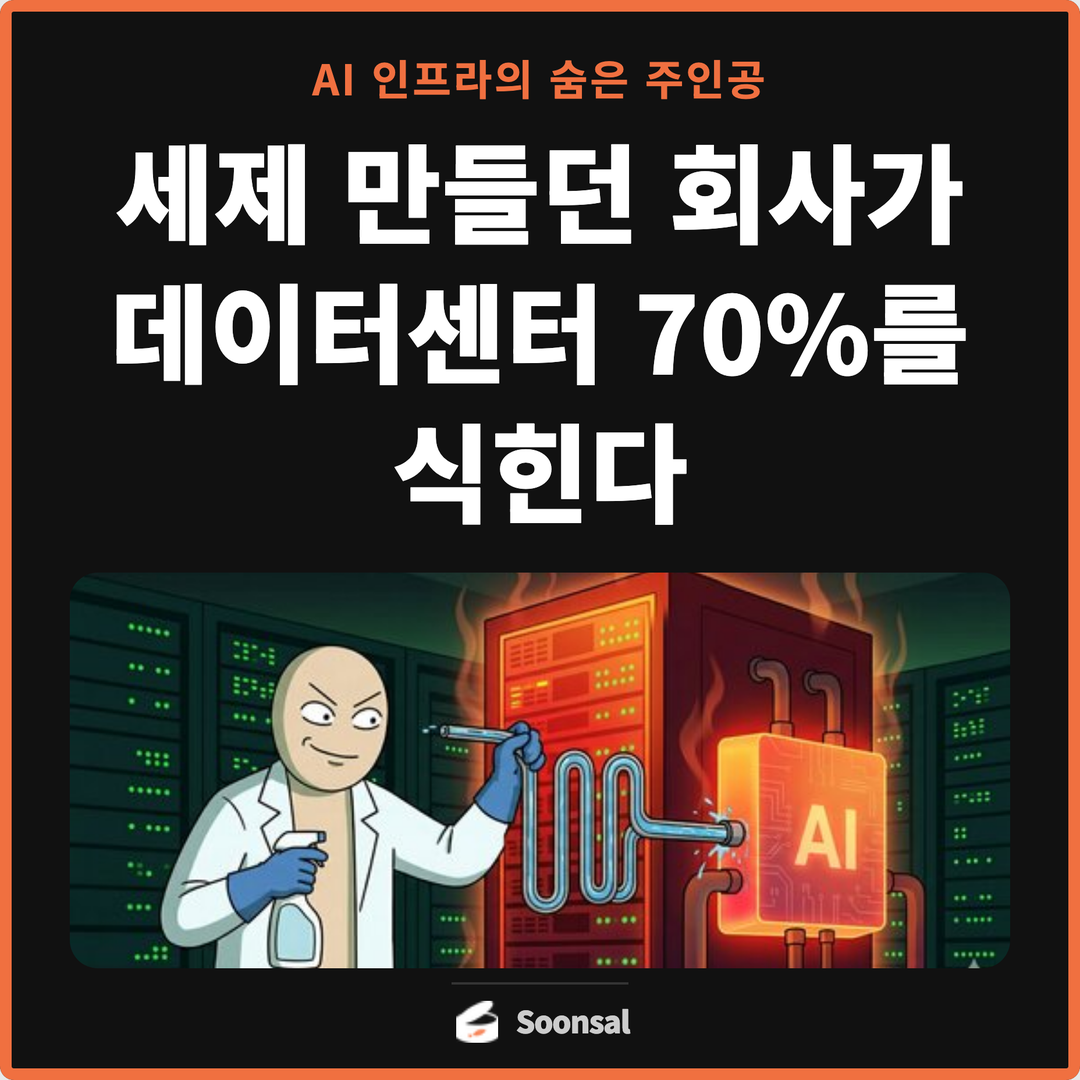
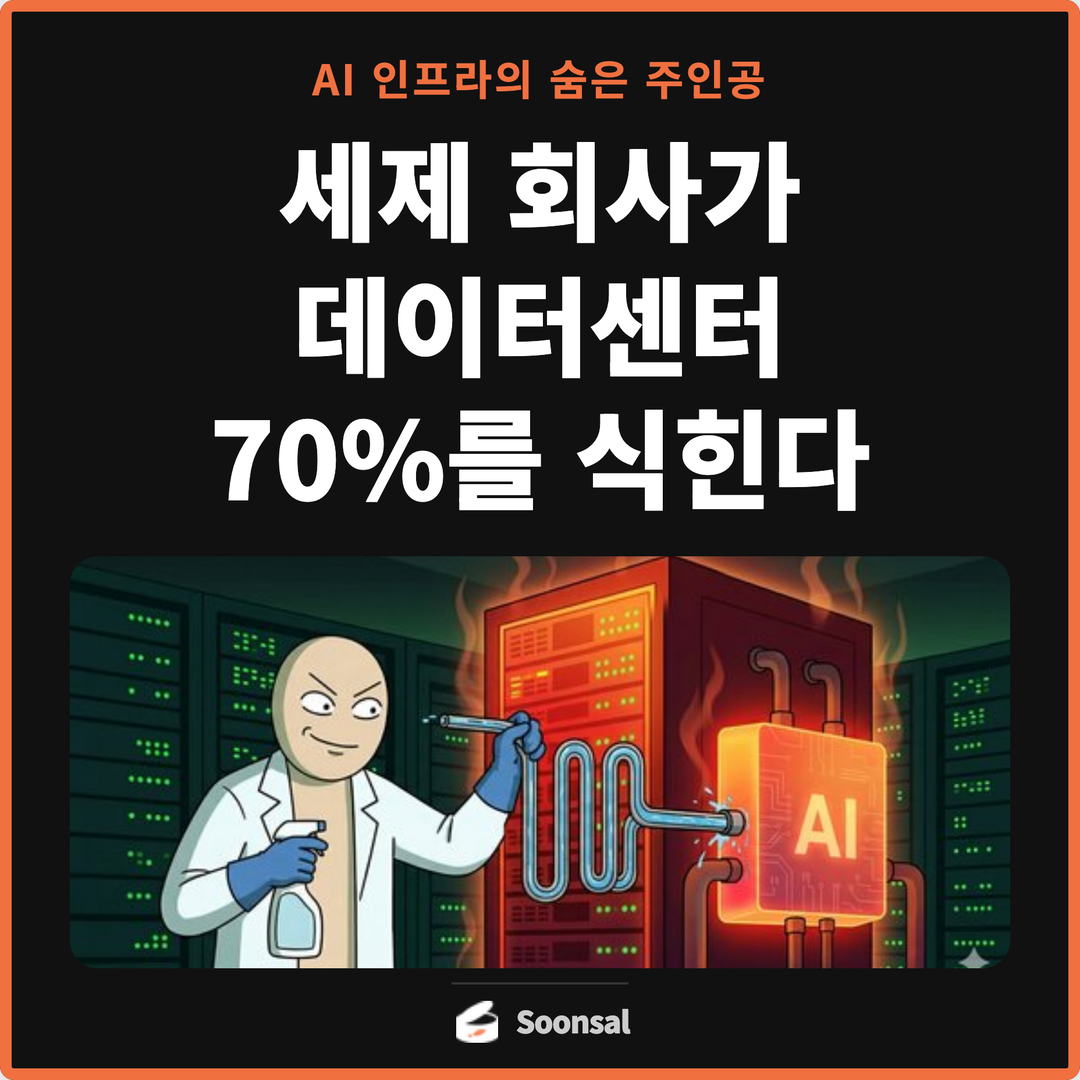
Add 순살카드뉴스 0409

Changed region(s): [[0.0917, 0.1222, 0.9472, 0.9167]]

diff --git a/cardnews/2026/0409.html b/cardnews/2026/0409.html
@@ -47,7 +47,7 @@
 <!-- 1p 커버 -->
 <div class="card" style="background:#111; justify-content:space-between; gap:6px;">
   <div style="font-size:18px; font-weight:700; color:#F07040; letter-spacing:1px;">AI 인프라의 숨은 주인공</div>
-  <div class="top-text cover-title" style="font-size:42px; color:#fff; line-height:1.3;">세제 만들던 회사가<br>데이터센터 70%를 식힌다</div>
+  <div class="top-text cover-title" style="font-size:46px; color:#fff; line-height:1.25;">세제 회사가 데이터센터<br>70%를 식힌다</div>
   <div style="flex:1 1 0; width:calc(100% - 16px); max-height:220px; margin:8px auto 0; border-radius:12px; overflow:hidden;">
[1 lines of base64/hex data omitted]
   </div>
